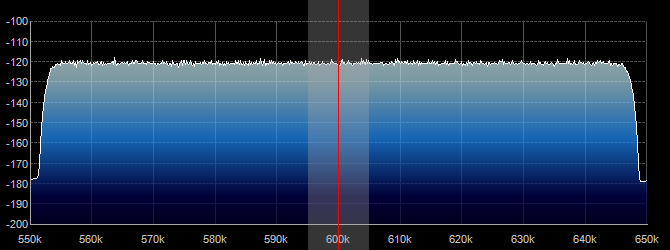
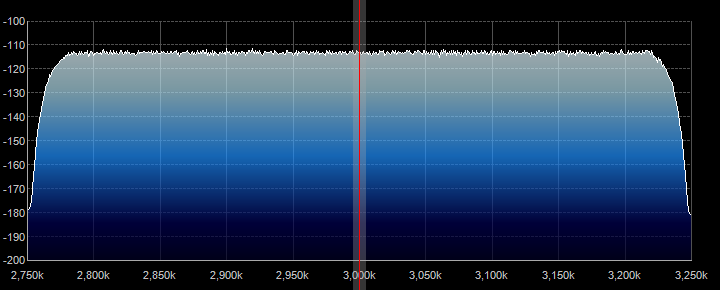
update screen shots

diff --git a/sdr-receiver.md b/sdr-receiver.md
@@ -77,7 +77,7 @@ h <- fir2(L, f, Mf, window=kaiser(L+1, Beta))
 paste(as.character(h), collapse=", ")
 {% endhighlight %}
 
-To get an idea of the combined (CIC and FIR) filter response, the following figure shows a 128k FFT display from the SDR# program when Red Pitaya inputs are not connected to anything and the SDR# filtering is switched off:
+To get an idea of the combined (CIC and FIR) filter response, the following figure shows a 256k FFT display from the SDR# program when Red Pitaya inputs are not connected to anything and the SDR# filtering is switched off:
 
 ![Filter response]({{ "/img/no-signal.png" | prepend: site.baseurl }})
 
